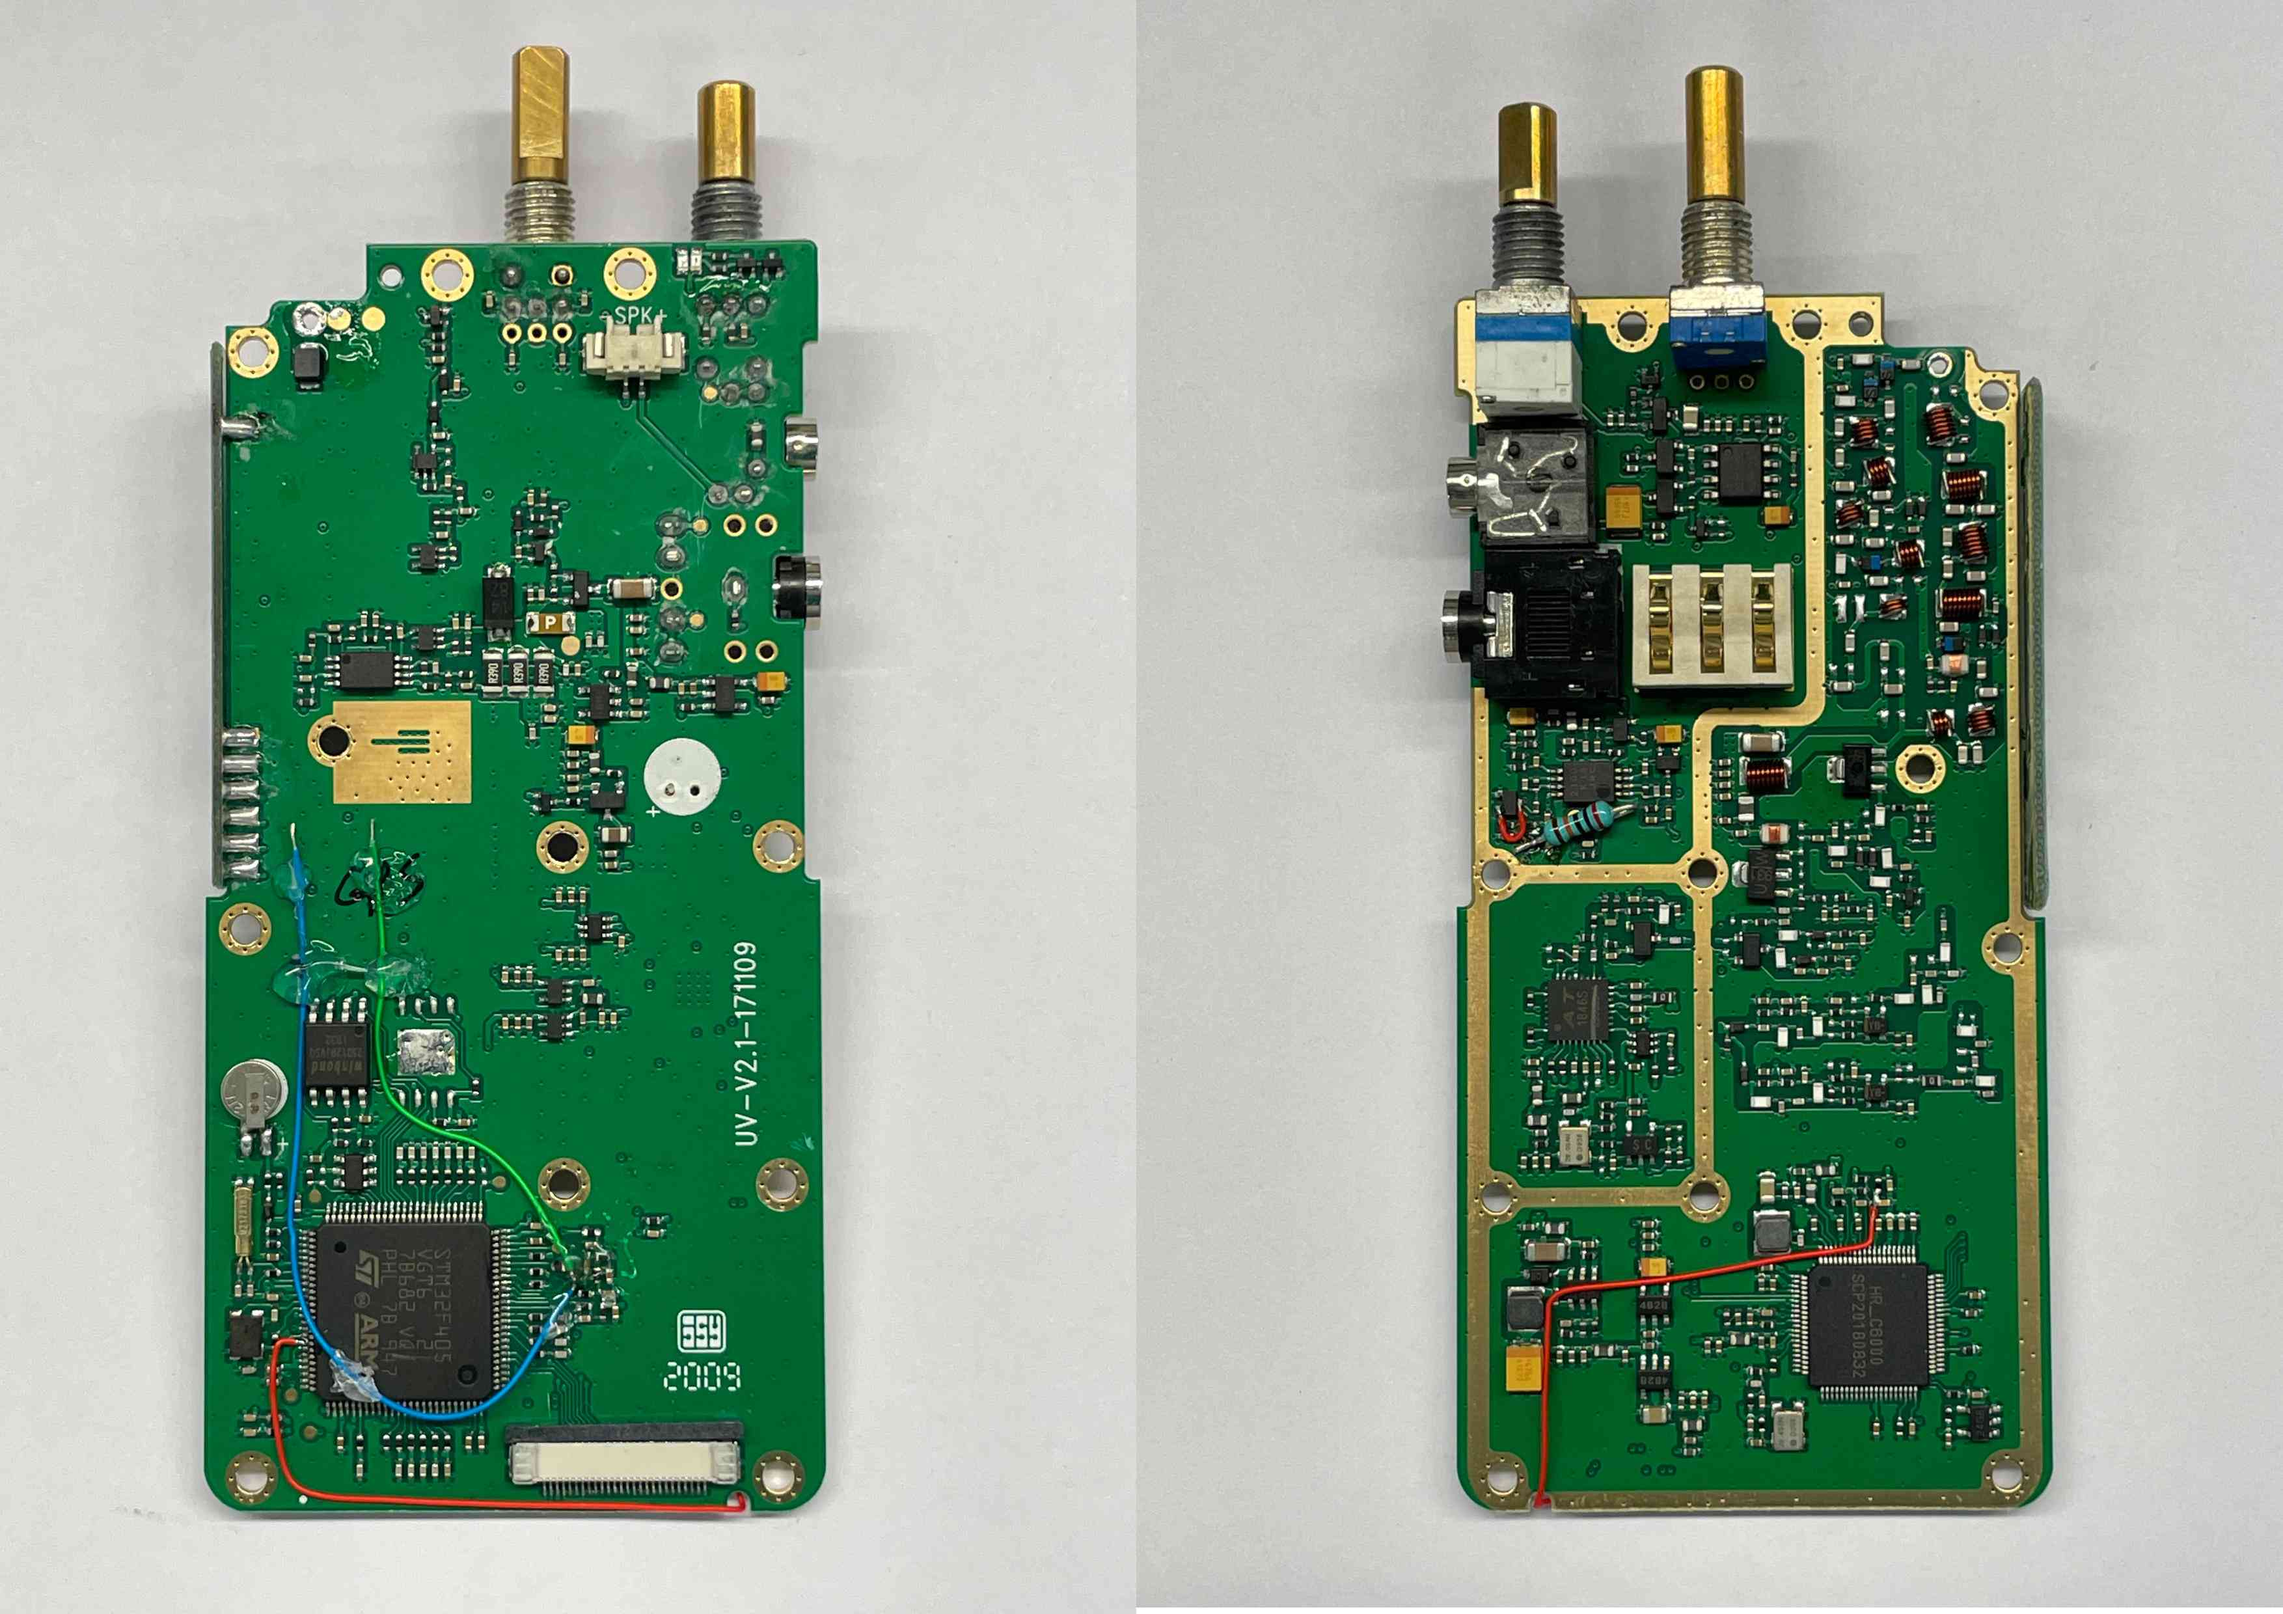
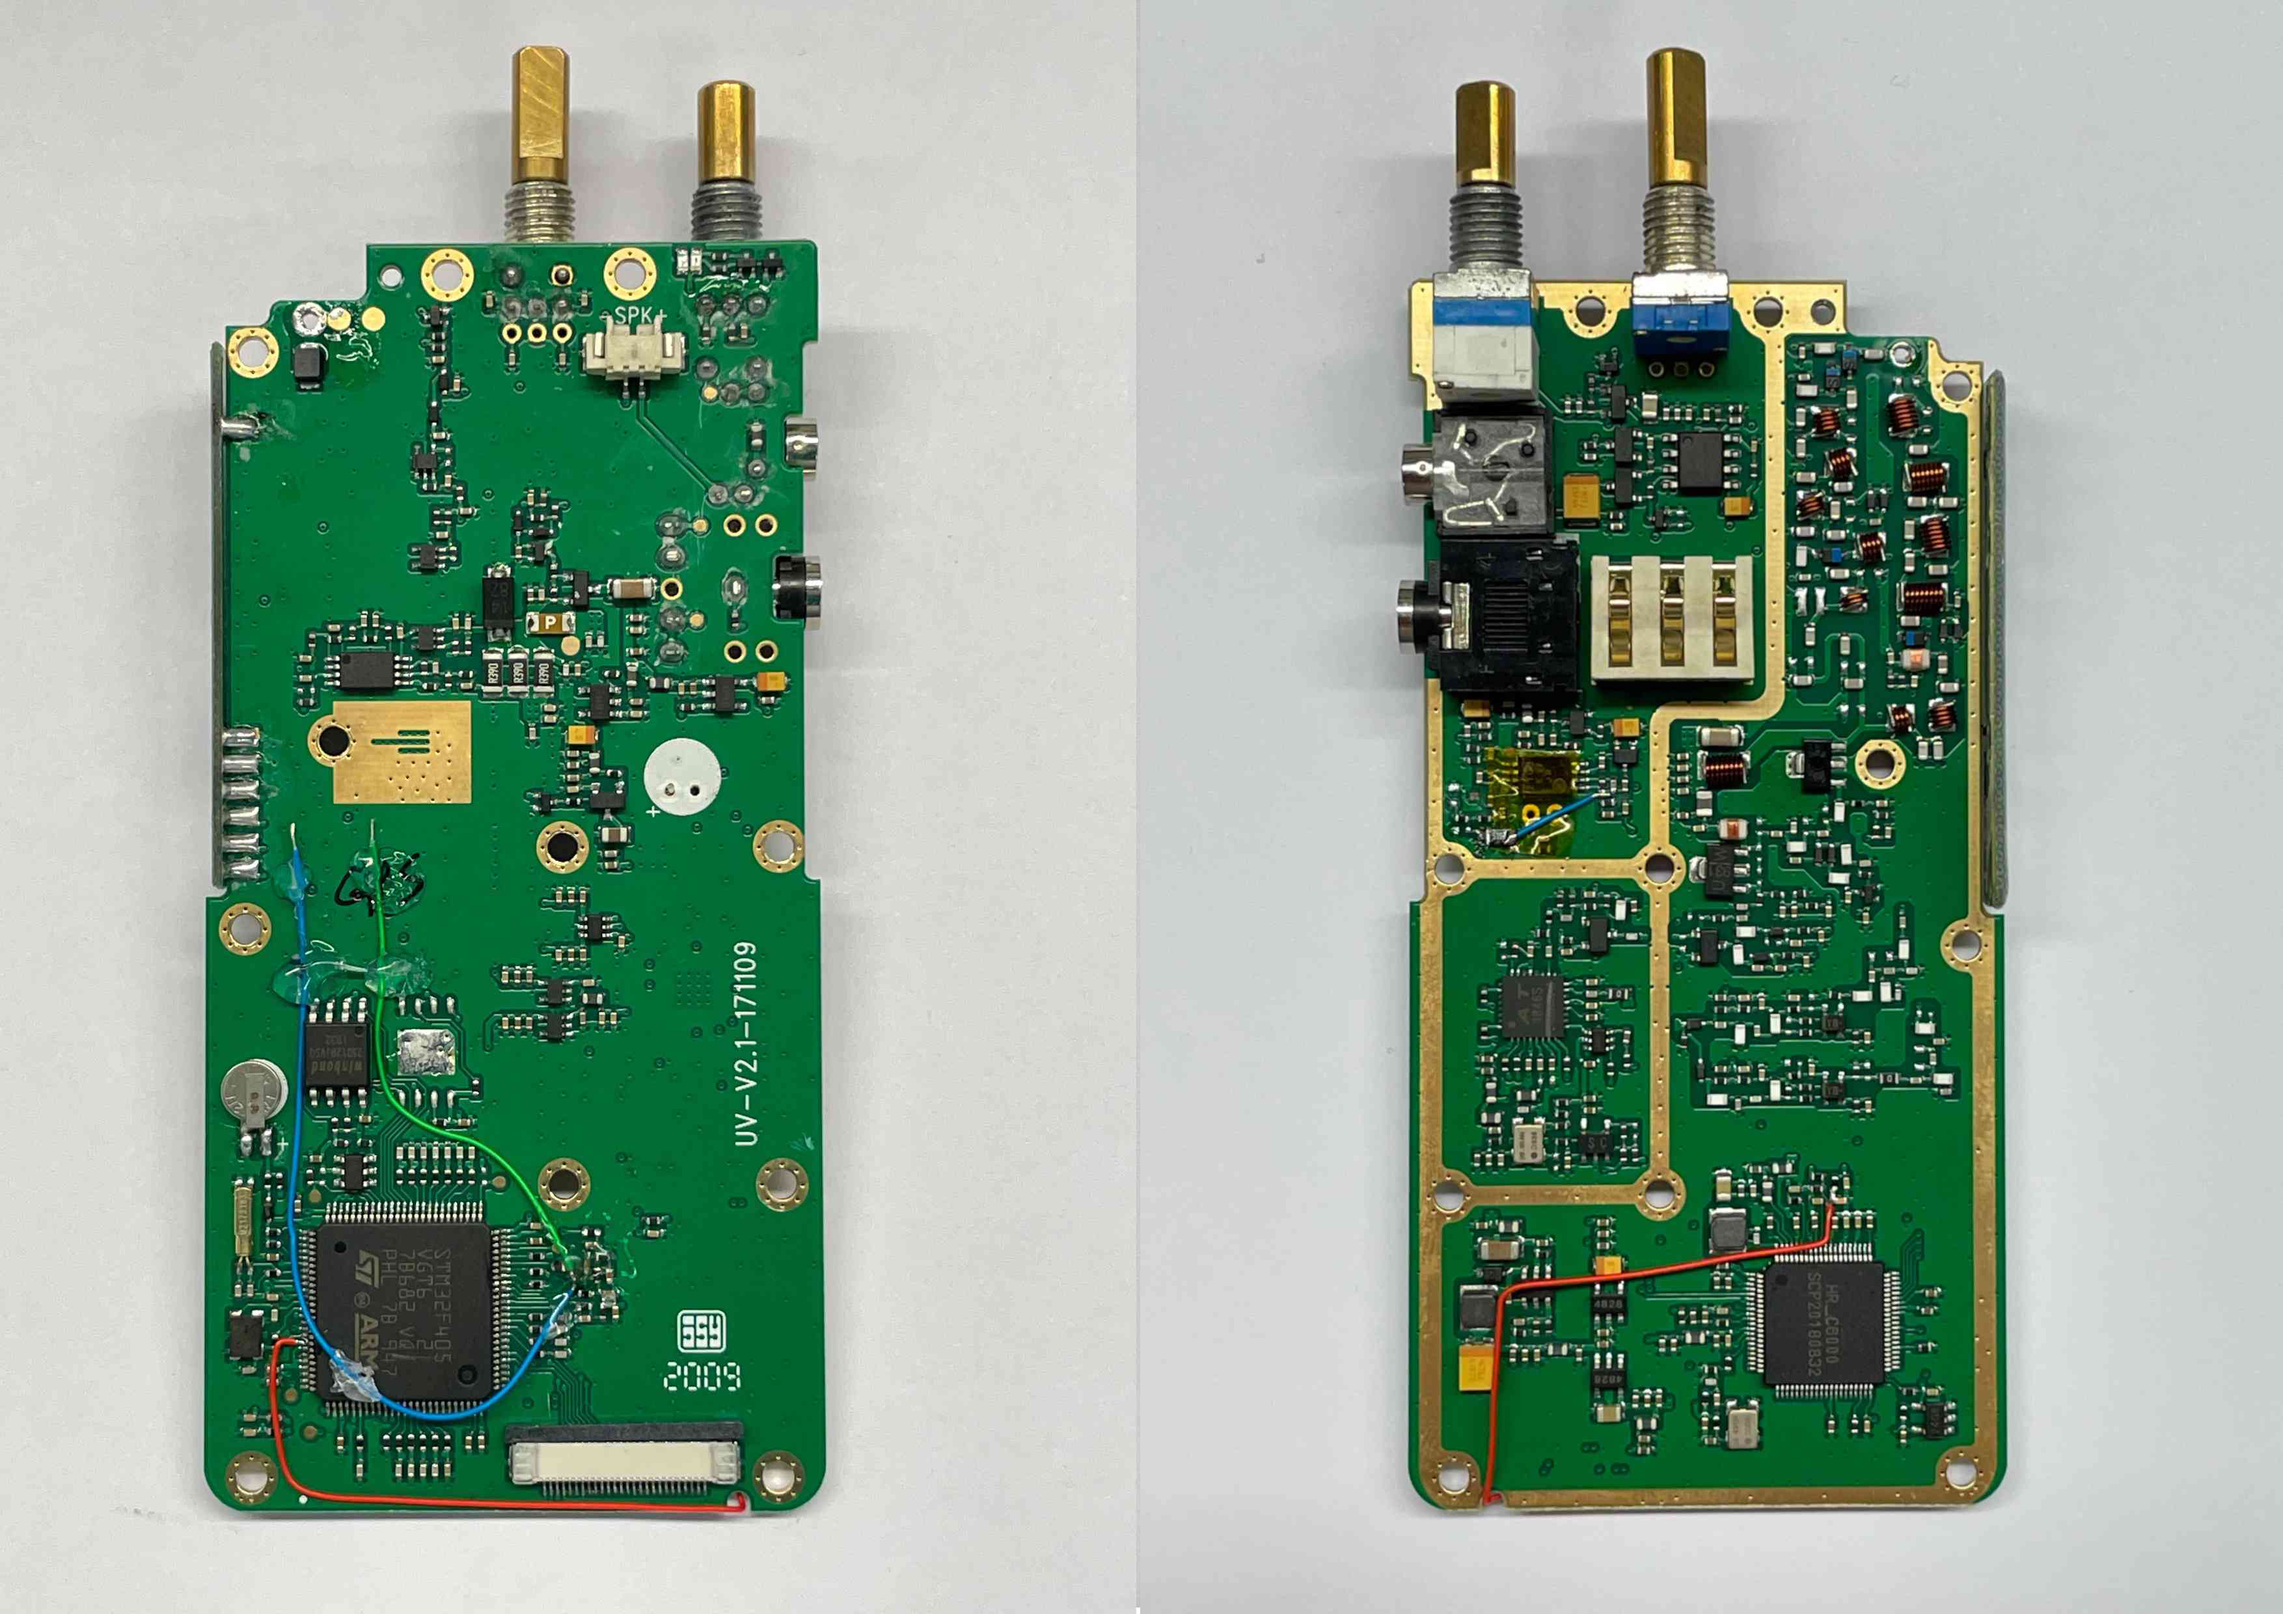
Minor mod improvements

Changed region(s): [[0.5904, 0.0, 0.9322, 0.9625], [0.4971, 0.9935, 1.0, 1.0], [0.7768, 0.0, 0.8079, 0.031]]

diff --git a/mduv380_mods.md b/mduv380_mods.md
@@ -19,7 +19,7 @@ For questions join [our Discord server](https://discord.gg/jZ9t8XTbmd), or write
 To perform the Mic → MCU and RF → MCU mods you need:
 - Screwdrivers: Torx T6, Torx T8, Philips #0
 - Plastic spudger like [this](https://it.aliexpress.com/item/32834353313.html) or similar
-- 1x **50KΩ SMD (Surface Mount Device)** resistor with at least 5% tolerance and 1/8W rating
+- 1x **50KΩ SMD (Surface Mount Device)** resistor with at least 5% tolerance
 - some 30AWG Kynar wire
 - A small tip soldering iron
 - A desoldering pump or solder wick
@@ -84,7 +84,7 @@ Steps:
 ![MD-UV380 Mic mod diode removal](_media/uv380_mic_diode_remove.jpg)
 - **Remove the C115 capacitor (SMD) entirely.** \
 ![MD-UV380 Mic mod capacitor removal](_media/uv380_mic_cap_remove.jpg)
-- **Cover the PCB in Kaptop tape leaving the right pad of the first capacitor you removed accessible.** \
+- **Cover the PCB in Kaptop tape leaving the left pad of the first capacitor you removed accessible.** \
 ![MD-UV380 Mic mod adding kapton](_media/uv380_mic_kapton.jpg)
 - **Solder the 50KΩ SMD resistor on the left pad of EC151.** \
 ![MD-UV380 Mic mod soldering resistor](_media/uv380_mic_resistor.jpg)

diff --git a/md380_mods.md b/md380_mods.md
@@ -13,7 +13,7 @@ For questions join [our Discord server](https://discord.gg/jZ9t8XTbmd), or write
 To perform the Mic → MCU and RF → MCU mods you need:
 - Screwdrivers: Torx T6, Torx T8, Philips #0
 - Plastic spudger like [this](https://it.aliexpress.com/item/32834353313.html) or similar
-- 1x 50KΩ SMD (Surface Mount Device) resistor with at least 5% tolerance and 1/8W rating
+- 1x 50KΩ SMD (Surface Mount Device) resistor with at least 5% tolerance
 - some 30AWG Kynar wire
 - A small tip soldering iron
 - A desoldering pump or solder wick
